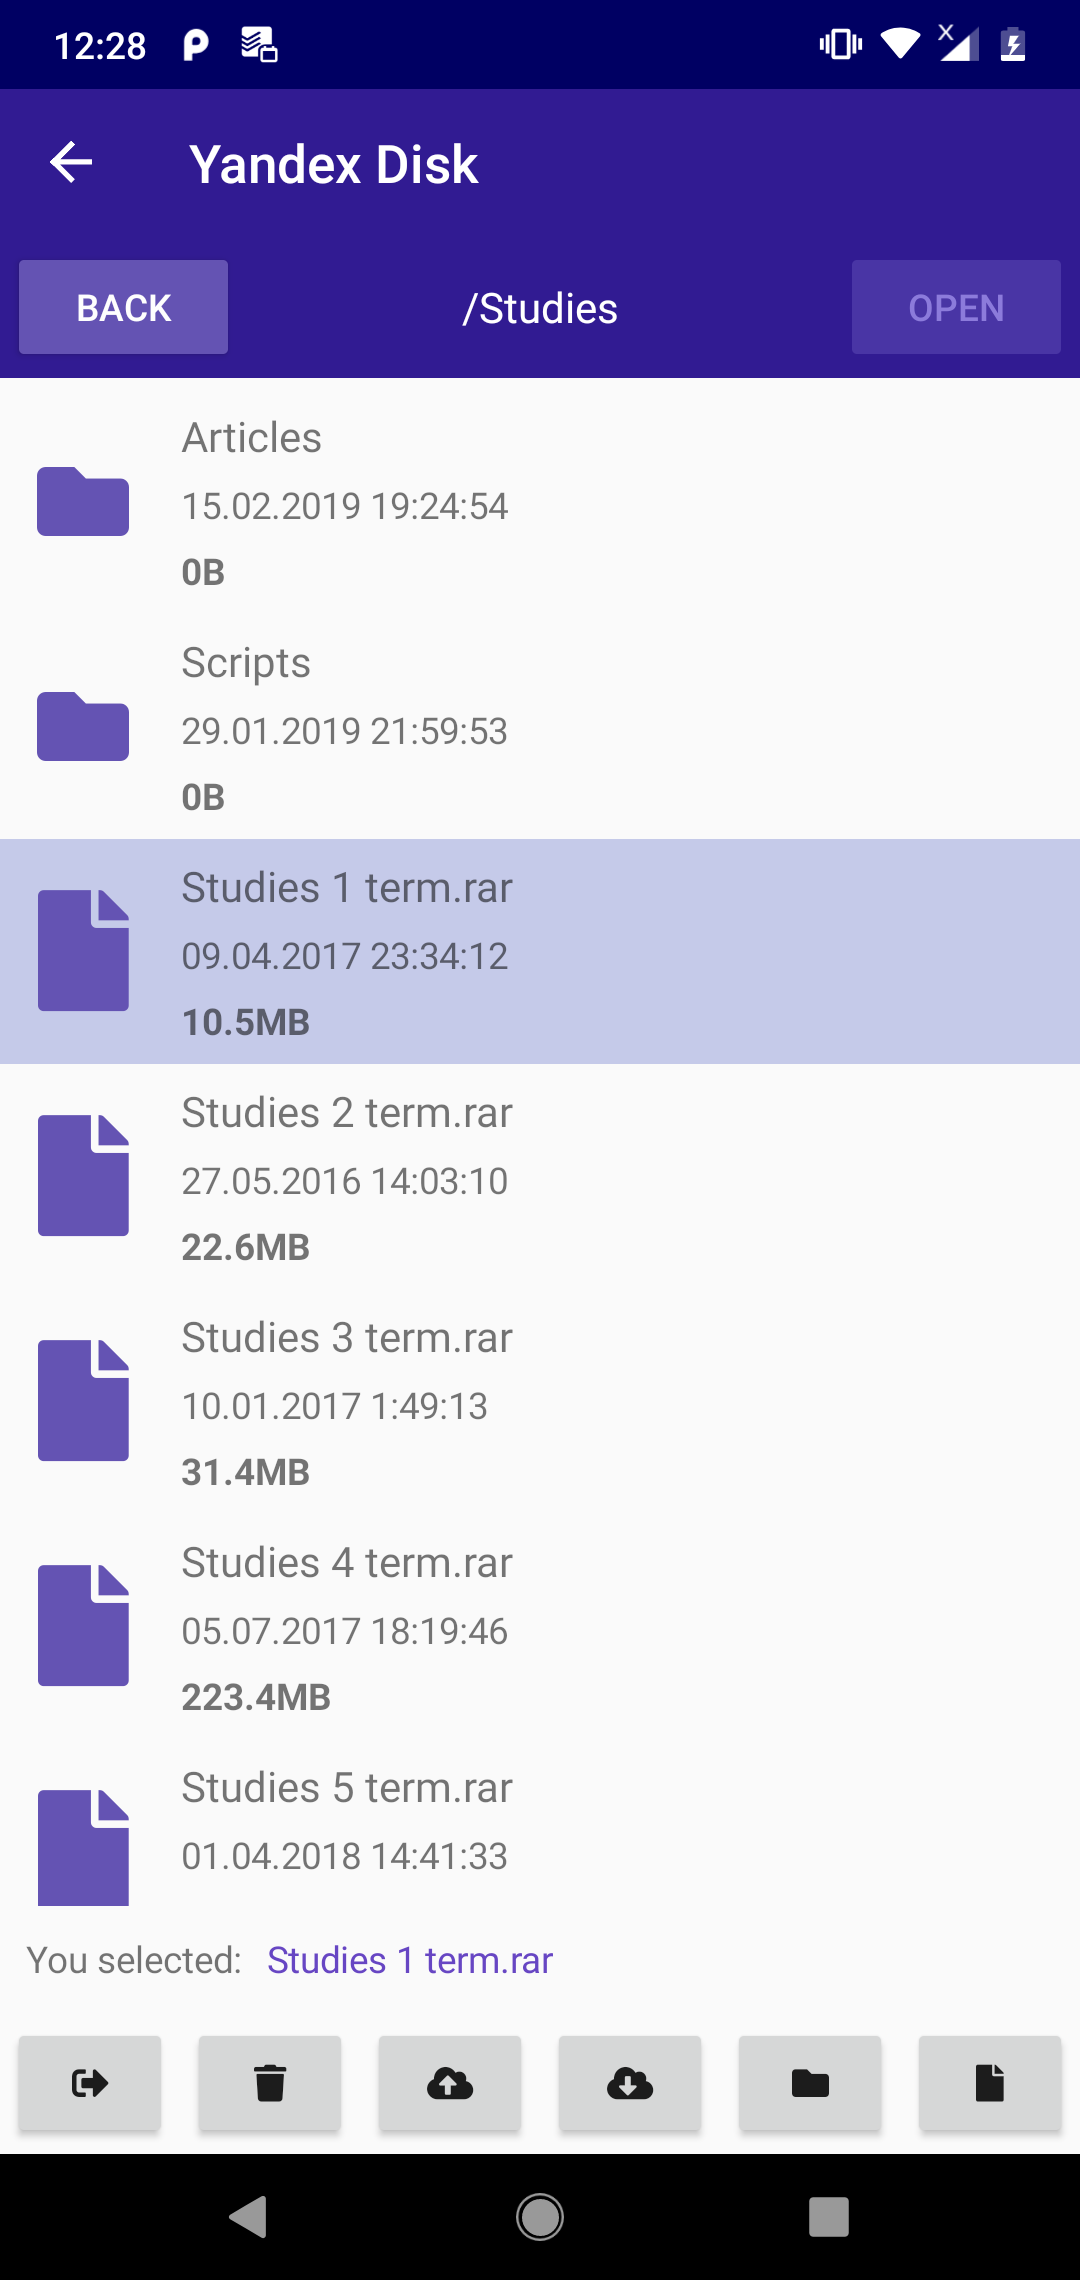
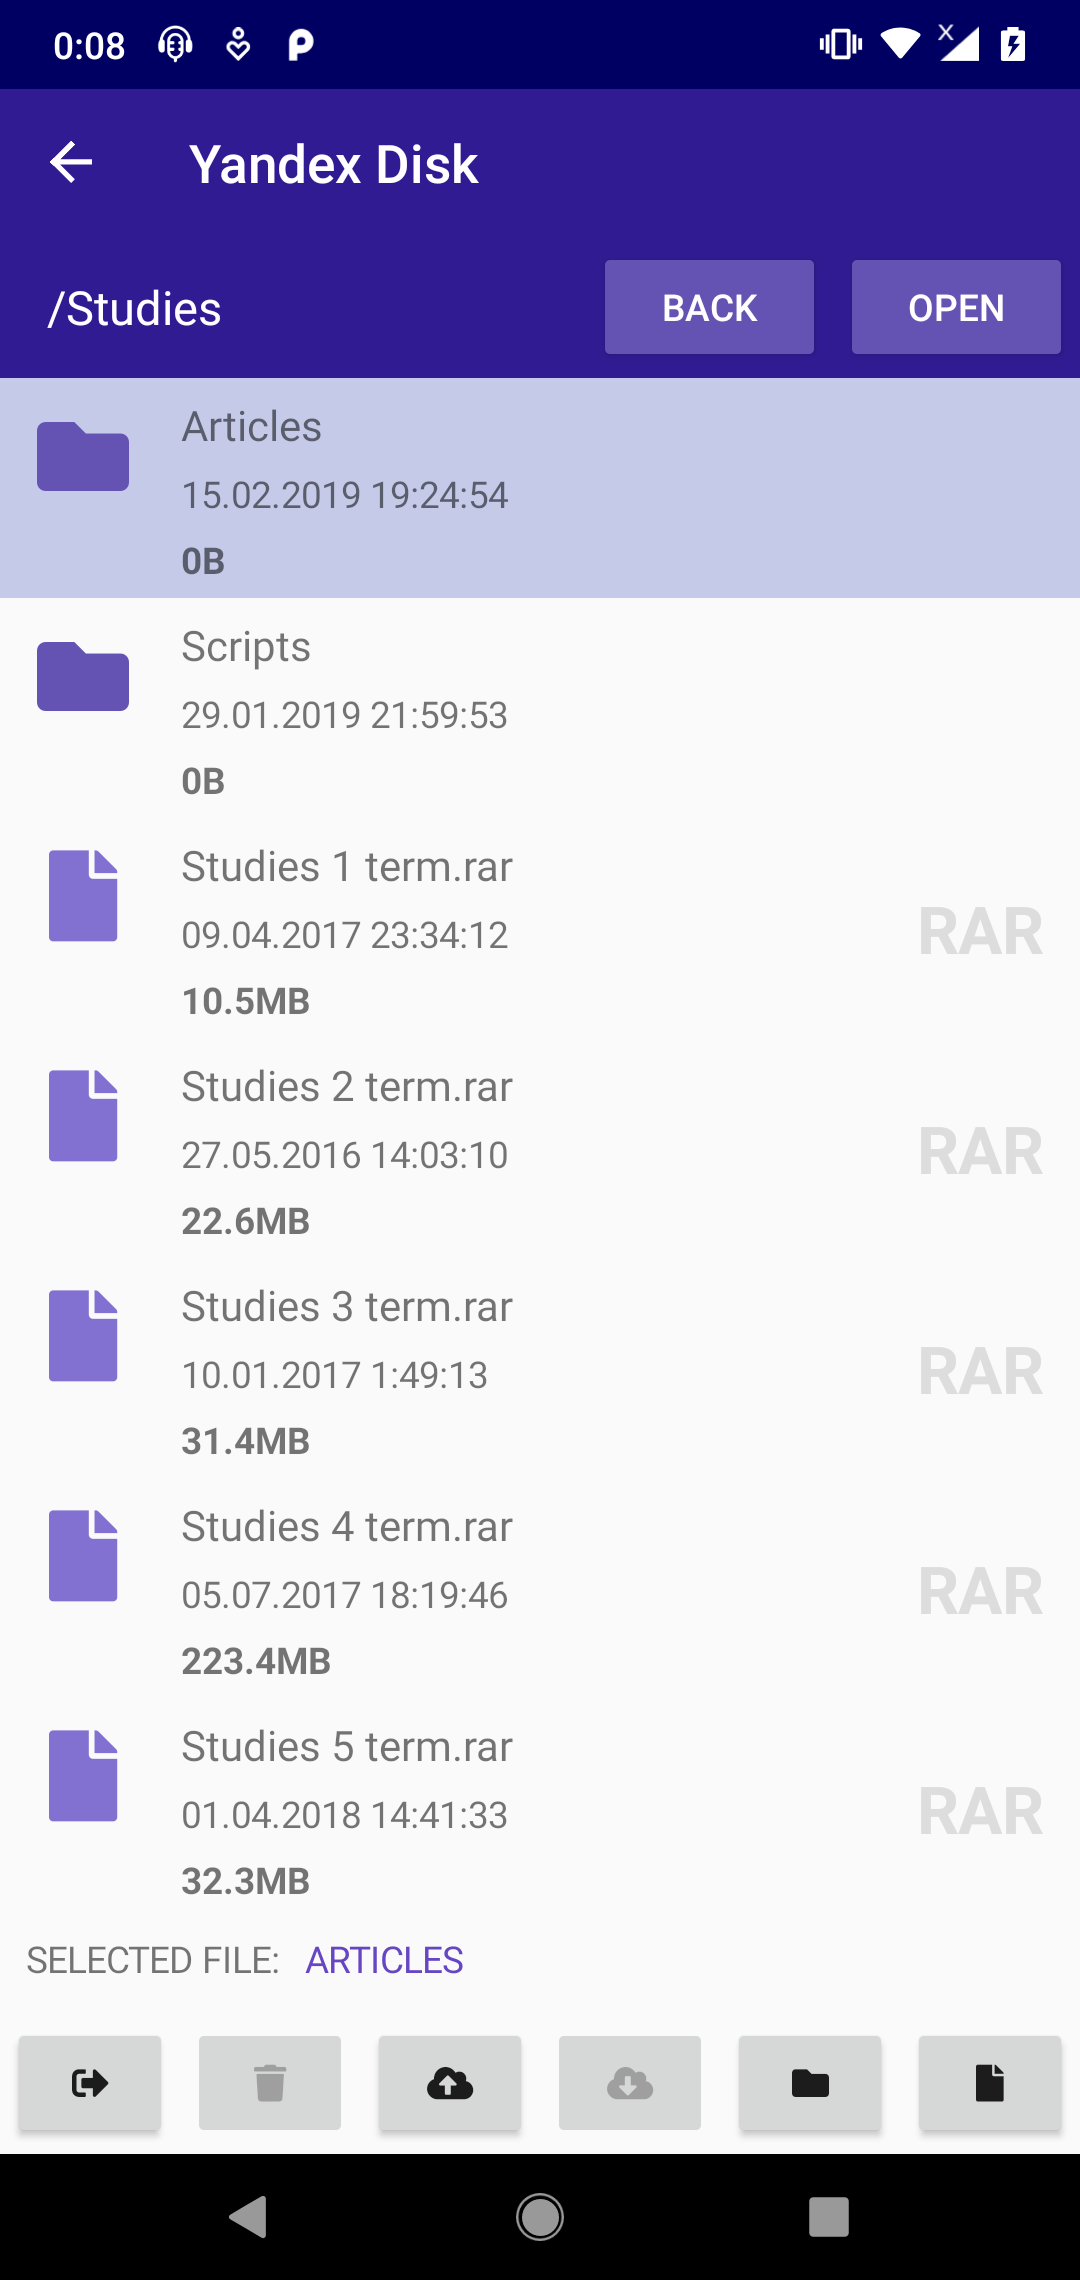
Recycle templates, show file types

diff --git a/Camelotia.Presentation.Xamarin/Views/ProviderExplorerView.xaml b/Camelotia.Presentation.Xamarin/Views/ProviderExplorerView.xaml
@@ -24,31 +24,33 @@
             </Grid.RowDefinitions>
             <Grid Grid.Row="0" Padding="3" BackgroundColor="#311b92">
                 <Grid.ColumnDefinitions>
-                    <ColumnDefinition Width="Auto" />
                     <ColumnDefinition Width="*" />
                     <ColumnDefinition Width="Auto" />
+                    <ColumnDefinition Width="Auto" />
                 </Grid.ColumnDefinitions>
-                <controls:AccentButton 
-                    Grid.Column="0"
-                    x:Name="BackButton"
-                    Text="Back" />
-                <Label Grid.Column="1"
+                <Label Grid.Column="0"
                        x:Name="PathLabel"
-                       HorizontalTextAlignment="Center"
+                       HorizontalTextAlignment="Start"
                        VerticalTextAlignment="Center"
                        LineBreakMode="HeadTruncation"
                        TextColor="#ffffff"
-                       FontSize="16"
+                       FontSize="18"
                        Margin="15, 0" />
+                <controls:AccentButton 
+                    Grid.Column="1"
+                    x:Name="BackButton"
+                    Text="Back" />
                 <controls:AccentButton 
                     Grid.Column="2"
                     x:Name="OpenButton"
                     Text="Open" />
             </Grid>
-            <ListView Grid.Row="1" 
-                      Margin="0"
+            <ListView Grid.Row="1"
+                      Margin="0, -6, 0, 0"
+                      IsPullToRefreshEnabled="True"
+                      CachingStrategy="RecycleElementAndDataTemplate"
                       SeparatorVisibility="None"
-                      x:Name="FilesListView" 
+                      x:Name="FilesListView"
                       HasUnevenRows="True">
                 <ListView.ItemTemplate>
                     <DataTemplate>
@@ -60,7 +62,7 @@
                 <StackLayout Orientation="Horizontal" 
                              HorizontalOptions="StartAndExpand"
                              Margin="10, 5">
-                    <Label Text="You selected: " />
+                    <Label Text="SELECTED FILE: " />
                     <Label x:Name="SelectedFileNameLabel" TextColor="Accent" />
                 </StackLayout>
             </Grid>

diff --git a/Camelotia.Presentation.Xamarin/Views/ProviderExplorerFileView.xaml b/Camelotia.Presentation.Xamarin/Views/ProviderExplorerFileView.xaml
@@ -12,18 +12,31 @@
             <Grid.ColumnDefinitions>
                 <ColumnDefinition Width="Auto" />
                 <ColumnDefinition Width="*" />
+                <ColumnDefinition Width="Auto" />
             </Grid.ColumnDefinitions>
             <iconize:IconImage
+                VerticalOptions="StartAndExpand"
                 x:Name="IconImage"
-                Margin="14, 7"
-                HeightRequest="35"
+                Margin="14, 12, 14, 5"
                 IconColor="#6453B3"
+                HeightRequest="35"
                 WidthRequest="35" />
-            <StackLayout Margin="0, 7, 7, 7" Grid.Column="1">
+            <StackLayout Margin="0, 7, 7, 5" Grid.Column="1">
                 <Label x:Name="NameLabel" FontSize="16" />
                 <Label x:Name="ModifiedLabel" />
                 <Label x:Name="SizeLabel" FontAttributes="Bold"/>
             </StackLayout>
+            <Label Grid.Column="2" 
+                   Margin="0, 0, 14, 0"
+                   x:Name="ExtensionLabel"
+                   HorizontalOptions="End"
+                   HorizontalTextAlignment="End"
+                   VerticalOptions="CenterAndExpand"
+                   VerticalTextAlignment="Center"
+                   TextColor="#dddddd"
+                   FontAttributes="Bold"
+                   WidthRequest="75"
+                   FontSize="25" />
         </Grid>
     </ViewCell.View>
 </rxui:ReactiveViewCell>

diff --git a/Camelotia.Presentation.Xamarin/Views/ProviderExplorerFileView.xaml.cs b/Camelotia.Presentation.Xamarin/Views/ProviderExplorerFileView.xaml.cs
@@ -1,9 +1,11 @@
-using Camelotia.Services.Models;
+using System.IO;
+using Camelotia.Services.Models;
 using ReactiveUI;
 using ReactiveUI.XamForms;
 using System.Reactive.Disposables;
 using System.Reactive.Linq;
 using Xamarin.Forms.Xaml;
+using Color = Xamarin.Forms.Color;
 
 namespace Camelotia.Presentation.Xamarin.Views
 {
@@ -25,6 +27,23 @@ namespace Camelotia.Presentation.Xamarin.Views
                 this.WhenAnyValue(x => x.ViewModel.IsFolder)
                     .Select(folder => folder ? "fas-folder" : "fas-file")
                     .BindTo(this, x => x.IconImage.Icon)
+                    .DisposeWith(disposables);
+
+                this.WhenAnyValue(x => x.ViewModel.IsFile)
+                    .Select(file => file ? Color.FromRgb(130, 113, 209) : Color.FromRgb(100, 83, 179))
+                    .BindTo(this, x => x.IconImage.IconColor)
+                    .DisposeWith(disposables);
+
+                this.WhenAnyValue(x => x.ViewModel.Name)
+                    .Where(name => ViewModel.IsFile)
+                    .Select(Path.GetExtension)
+                    .Where(ext => ext?.Length <= 4)
+                    .Select(ext => ext.ToUpperInvariant().TrimStart('.'))
+                    .Merge(this
+                        .WhenAnyValue(x => x.ViewModel.IsFolder)
+                        .Where(folder => folder)
+                        .Select(none => string.Empty))
+                    .BindTo(this, x => x.ExtensionLabel.Text)
                     .DisposeWith(disposables);
             });
         }

diff --git a/Camelotia.Presentation.Xamarin/Views/ProviderExplorerView.xaml.cs b/Camelotia.Presentation.Xamarin/Views/ProviderExplorerView.xaml.cs
@@ -1,5 +1,6 @@
 using Camelotia.Presentation.Interfaces;
 using System.Reactive.Disposables;
+using System.Reactive.Linq;
 using Xamarin.Forms.Xaml;
 using ReactiveUI.XamForms;
 using ReactiveUI;
@@ -41,8 +42,6 @@ namespace Camelotia.Presentation.Xamarin.Views
                 this.BindCommand(ViewModel, x => x.DeleteSelectedFile, x => x.DeleteButton)
                     .DisposeWith(disposables);
 
-                this.OneWayBind(ViewModel, x => x.SelectedFile.Name, x => x.SelectedFileNameLabel.Text)
-                    .DisposeWith(disposables);
                 this.BindCommand(ViewModel, x => x.UploadToCurrentPath, x => x.UploadButton)
                     .DisposeWith(disposables);
                 this.BindCommand(ViewModel, x => x.DownloadSelectedFile, x => x.DownloadButton)
@@ -53,6 +52,10 @@ namespace Camelotia.Presentation.Xamarin.Views
                     .DisposeWith(disposables);
 
                 this.OneWayBind(ViewModel, x => x.Name, x => x.Title)
+                    .DisposeWith(disposables);
+                this.WhenAnyValue(x => x.ViewModel.SelectedFile.Name)
+                    .Select(name => name.ToUpperInvariant())
+                    .BindTo(this, x => x.SelectedFileNameLabel.Text)
                     .DisposeWith(disposables);
             });
         }
